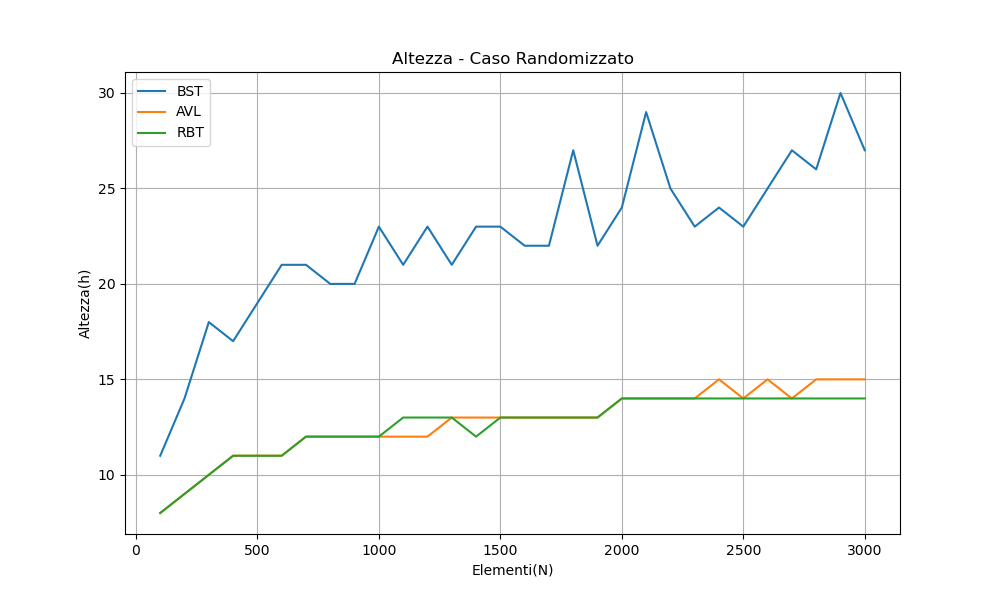
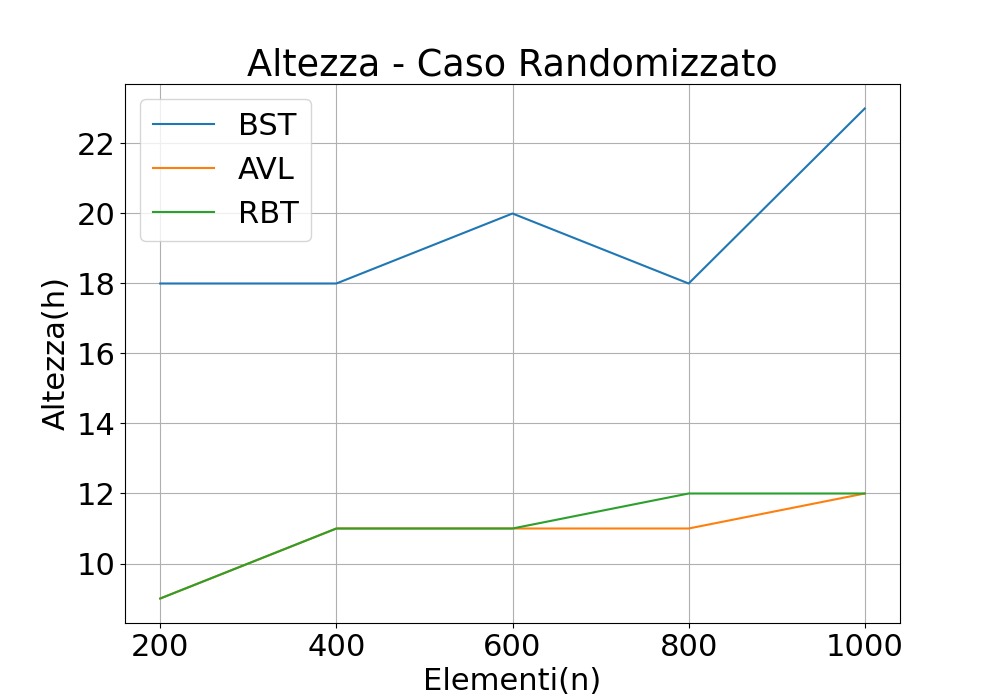
Fixed tree algs

diff --git a/Test BST/src/AVL.py b/Test BST/src/AVL.py
@@ -2,17 +2,27 @@ from src.Node import Node
 from src.BST import BST
 
 class AVL(BST):
+    # gestione altezza
+    def tree_height(self, node):
+        if node is None:
+            return 0
+        return getattr(node, 'h', 1)
+
+    def update_height(self, node):
+        if node is not None:
+            left_h = self.tree_height(node.left)
+            right_h = self.tree_height(node.right)
+            node.h = 1 + max(left_h, right_h)
+
     # rotazione sinistra
     def left_rotate(self, old):
         new = old.right
+
         old.right = new.left
-
-        old.h = max(old.left.h, old.right.h) + 1
-
         if new.left != self.get_nil():
             new.left.p = old
-        new.p = old.p
 
+        new.p = old.p
         if old.p == self.get_nil():
             self.root = new
         elif old == old.p.left:
@@ -21,20 +31,20 @@ class AVL(BST):
             old.p.right = new
 
         new.left = old
-        new.h = max(new.left.h, new.right.h) + 1
         old.p = new
+
+        self.update_height(old)
+        self.update_height(new)
 
     # rotazione destra
     def right_rotate(self, old):
         new = old.left
+
         old.left = new.right
-
-        old.h = max(old.left.h, old.right.h) + 1
-
         if new.right != self.get_nil():
             new.right.p = old
-        new.p = old.p
 
+        new.p = old.p
         if old.p == self.get_nil():
             self.root = new
         elif old == old.p.right:
@@ -43,24 +53,25 @@ class AVL(BST):
             old.p.left = new
 
         new.right = old
-        new.h = max(new.left.h, new.right.h) + 1
         old.p = new
+
+        self.update_height(old)
+        self.update_height(new)
 
     # fixup
     def fixup(self, node):
         curr = node.p
         while curr != self.get_nil():
-            curr.h = max(curr.left.h, curr.right.h) + 1
-
-            balance = curr.left.h - curr.right.h
+            self.update_height(curr)
+            balance = self.tree_height(curr.left) - self.tree_height(curr.right)
 
             if balance == 2:
-                if (curr.left.left.h - curr.left.right.h) == -1:
+                if (self.tree_height(curr.left.left) - self.tree_height(curr.left.right)) == -1:
                     self.left_rotate(curr.left)
                 self.right_rotate(curr)
                 curr = curr.p
             elif balance == -2:
-                if (curr.right.left.h - curr.right.right.h) == 1:
+                if (self.tree_height(curr.right.left) - self.tree_height(curr.right.right)) == 1:
                     self.right_rotate(curr.right)
                 self.left_rotate(curr)
                 curr = curr.p

diff --git a/Test BST/main.py b/Test BST/main.py
@@ -1,10 +1,6 @@
-print("1", flush = True)
 from Tester import Tester
-print("2")
 import pandas as pd
-print("3")
 import matplotlib.pyplot as plt
-print("4")
 import os
 
 # generazione foglio di calcolo
@@ -43,7 +39,8 @@ def graph(df, title, cols, name, y_label):
     script_dir = os.path.dirname(os.path.abspath(__file__))
     output_folder = os.path.join(script_dir, "plots")
 
-    plt.figure(figsize = (10, 6))
+    plt.figure(figsize = (10, 7))
+    plt.rcParams.update({'font.size': 22})
 
     # acquisizione dati numerici
     df[cols[0]] = pd.to_numeric(df[cols[0]])
@@ -66,10 +63,11 @@ def graph(df, title, cols, name, y_label):
     plt.savefig(save_path)
     plt.close()
 
+    print("Grafico generato correttamente come:", name)
+
 
 # MAIN
 if __name__ == "__main__":
-    print("aaaaa")
     pull_size = 1000 # numero massimo di elementi da campionare
     num_test = 1 # qty test per ricavare la media
     increment = 200 # passo incrementale (definisce densità dei punti)
@@ -92,7 +90,6 @@ if __name__ == "__main__":
                      "height_seq_graph.png", "Altezza(h)")
     graph(dataframe, "Altezza - Caso Randomizzato", ["Height_BST_Rand(n)", "Height_AVL_Rand(n)", "Height_RBT_Rand(n)"],
                      "height_rand_graph.png", "Altezza(h)")
-
     graph(dataframe, "Ricerca - Caso Sequenziale", ["Search_BST_Seq(ms)", "Search_AVL_Seq(ms)", "Search_RBT_Seq(ms)"],
                      "search_seq_graph.png", "Tempo(ms)")
     graph(dataframe, "Ricerca - Caso Randomizzato",

diff --git a/Test BST/Tester.py b/Test BST/Tester.py
@@ -12,8 +12,8 @@ def setup_sequence(size):
     sequence = list(range(size))
     return sequence
 
-def setup_randomized(size, max):
-    randomized = [random.randint(1, max) for _ in range(size)]
+def setup_randomized(size, max_value):
+    randomized = [random.randint(1, max_value) for _ in range(size)]
     return randomized
 
 
@@ -36,7 +36,7 @@ class Tester:
             end = time.perf_counter()
 
             optime.append(end - start)
-            height.append(tree.get_height(tree.root))
+            height.append(tree.tree_height(tree.root))
             tree.reset()
 
         # approssimazione risultati
@@ -60,7 +60,7 @@ class Tester:
             optime.append(end - start)
         tree.reset()
 
-        res_seq = statistics.median(optime)
+        res_seq = statistics.median(optime) * 1000
         return res_seq
 
     # test manager

diff --git a/Test BST/src/BST.py b/Test BST/src/BST.py
@@ -1,4 +1,6 @@
 from src.Node import Node
+import sys
+sys.setrecursionlimit(10**6)
 
 class BST:
     # costruttore
@@ -13,10 +15,10 @@ class BST:
         return node is None
 
     # calcolo altezza
-    def get_height(self, node):
+    def tree_height(self, node):
         if self.is_nil(node):
             return 0
-        return 1 + max(self.get_height(node.left), self.get_height(node.right))
+        return 1 + max(self.tree_height(node.left), self.tree_height(node.right))
 
     # inserimento
     def insert(self, key):

diff --git a/Test BST/src/Node.py b/Test BST/src/Node.py
@@ -7,4 +7,4 @@ class Node:
 
         self.color = 'RED' # RED o BLACK
 
-        self.h = 1
+        self.h = 0
